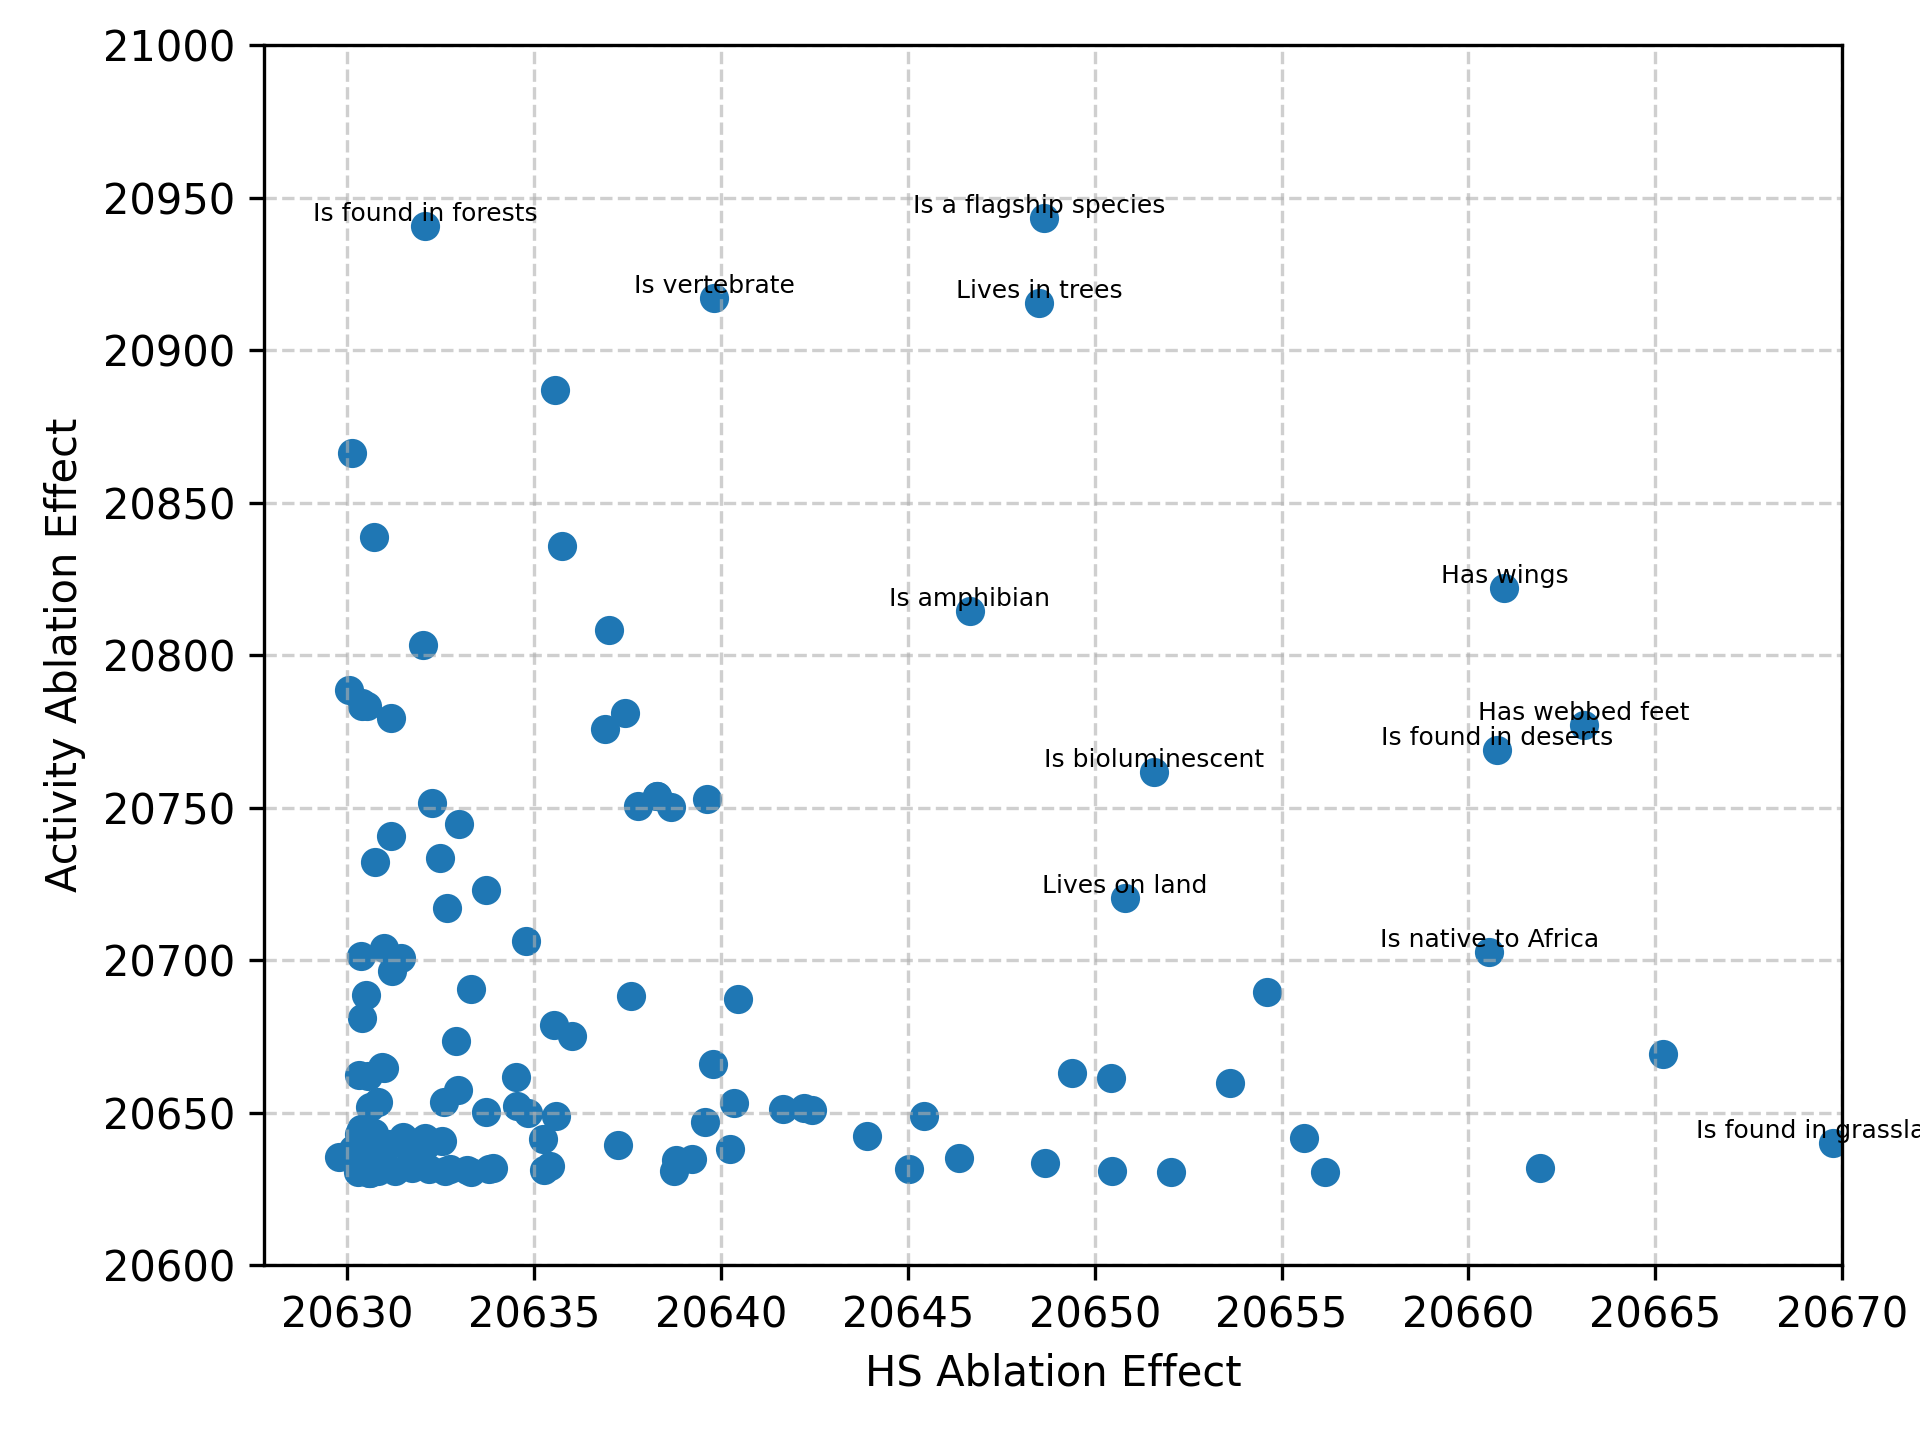
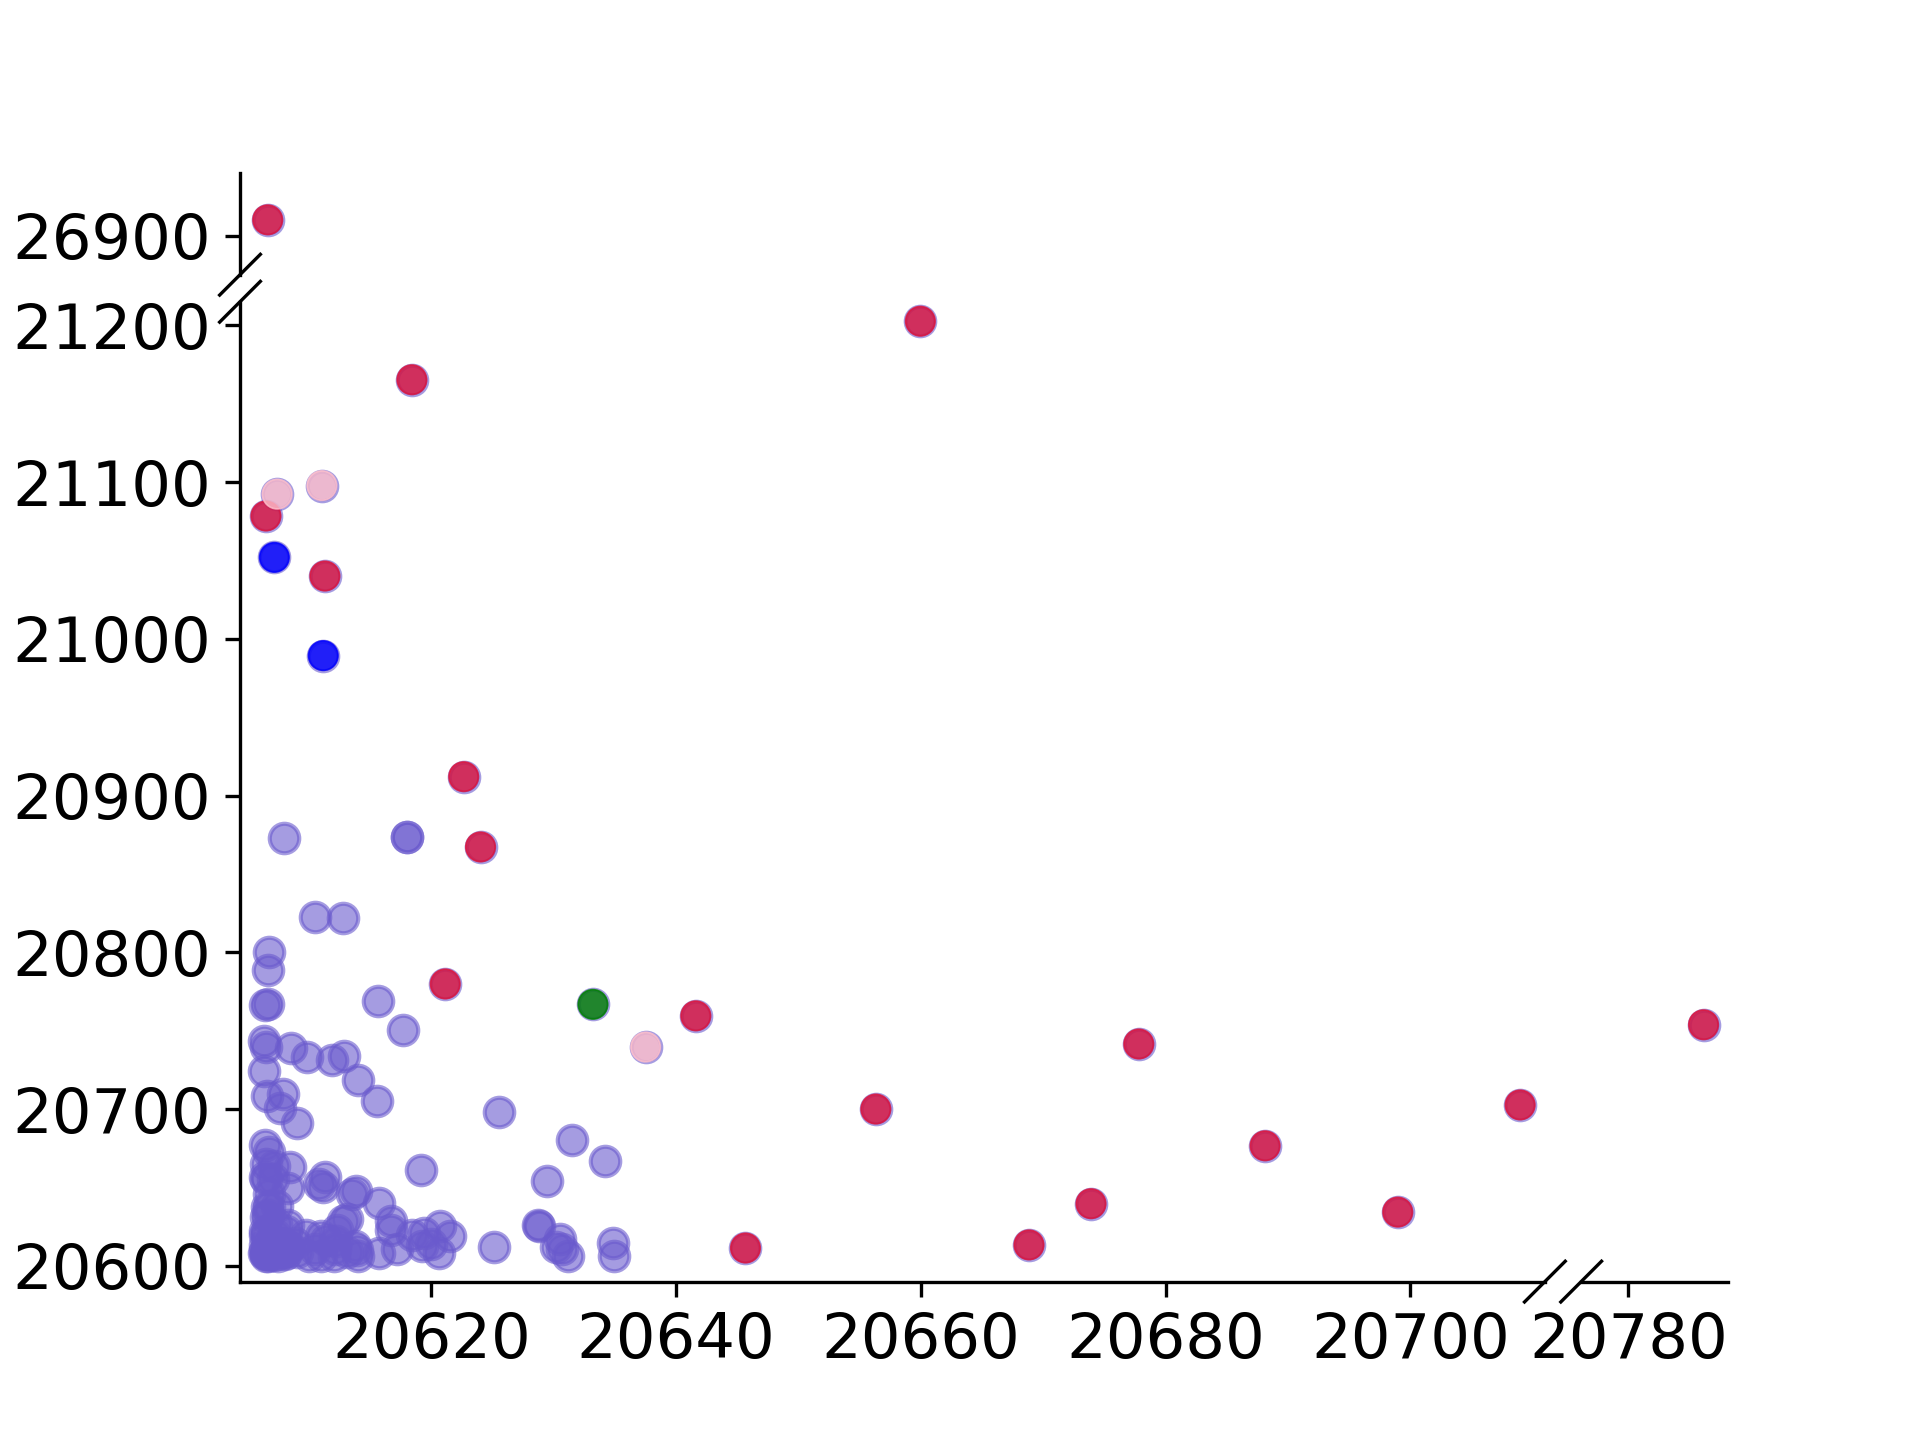
redoing all analyses, code documentation

diff --git a/models/runner.py b/models/runner.py
@@ -32,6 +32,7 @@ pd.set_option('display.max_columns', None)      # Show all columns
 from scipy.stats import ttest_ind
 from itertools import combinations
 device = torch.device("cuda" if torch.cuda.is_available() else "cpu")
+from brokenaxes import brokenaxes
 
 def changeweights(weights, i):
     device = weights.device
@@ -269,8 +270,8 @@ def run(config):
         original_weights = results[f"weights_fold1{suffix}"].detach()
 
         try:
-            barplot1 = pk.load(open(f"../fits/ablations1_{suffix}.pk", "rb"))
-            barplot2 = pk.load(open(f"../fits/ablations2_{suffix}.pk", "rb"))
+            barplot1 = pk.load(open(f"../fits/ablations1{suffix}.pk", "rb"))
+            barplot2 = pk.load(open(f"../fits/ablations2{suffix}.pk", "rb"))
         except:
             totalnlls = []
             for i in tqdm(range(len(original_weights) + 1)):
@@ -282,8 +283,8 @@ def run(config):
     
             barplot1 = [totalnlls[i].detach().cpu().item() for i in np.arange(0, 2 + num_features)]
             barplot2 = [totalnlls[i].detach().cpu().item() for i in [0, 1] + list(np.arange(2 + num_features, 2 + 2*num_features))]
-            pk.dump(barplot1, open(f"../fits/ablations1_{suffix}.pk", "wb"))
-            pk.dump(barplot2, open(f"../fits/ablations2_{suffix}.pk", "wb"))
+            pk.dump(barplot1, open(f"../fits/ablations1{suffix}.pk", "wb"))
+            pk.dump(barplot2, open(f"../fits/ablations2{suffix}.pk", "wb"))
 
         plt.figure(figsize=(15, 8))
         labels = ["with all weights", "no freq"] + [f"no HS_{feat}" for feat in models[best_model_class].models[best_model_name].feature_names]
@@ -296,8 +297,8 @@ def run(config):
         plt.title(f'Ablation for HS')
         plt.grid(axis='y', linestyle=':', alpha=0.5)
         plt.tight_layout()
-        plt.savefig(f"../plots/ablation_study_HS_{suffix}.png", dpi=300, bbox_inches='tight')
-        print(f"Saved ../plots/ablation_study_HS_{suffix}.png")
+        plt.savefig(f"../plots/ablation_study_HS{suffix}.png", dpi=300, bbox_inches='tight')
+        print(f"Saved ../plots/ablation_study_HS{suffix}.png")
 
         plt.figure(figsize=(15, 8))
         labels = ["with all weights", "no freq"] + [f"no Activity_{feat}" for feat in models[best_model_class].models[best_model_name].feature_names]
@@ -310,11 +311,11 @@ def run(config):
         plt.title(f'Ablation for Activity')
         plt.grid(axis='y', linestyle=':', alpha=0.5)
         plt.tight_layout()
-        plt.savefig(f"../plots/ablation_study_Activity_{suffix}.png", dpi=300, bbox_inches='tight')
-        print(f"Saved ../plots/ablation_study_Activity_{suffix}.png")
+        plt.savefig(f"../plots/ablation_study_Activity{suffix}.png", dpi=300, bbox_inches='tight')
+        print(f"Saved ../plots/ablation_study_Activity{suffix}.png")
 
         try:
-            barplot3 = pk.load(open(f"../fits/ablations3_{suffix}.pk", "rb"))
+            barplot3 = pk.load(open(f"../fits/ablations3{suffix}.pk", "rb"))
         except:
             totalnlls_fullfeatureremoved = []
             for i in tqdm(range(num_features + 2)):
@@ -327,7 +328,7 @@ def run(config):
                 totalnll = sum([models[best_model_class].models[best_model_name].get_nll(seq, weights, True) for seq in sequences])
                 totalnlls_fullfeatureremoved.append(totalnll)
             barplot3 = [totalnlls_fullfeatureremoved[i].detach().cpu().item() for i in range(len(totalnlls_fullfeatureremoved))]
-            pk.dump(barplot3, open(f"../fits/ablations3_{suffix}.pk", "wb"))
+            pk.dump(barplot3, open(f"../fits/ablations3{suffix}.pk", "wb"))
 
         plt.figure(figsize=(15, 8))
         labels = ["with all weights", "no freq"] + [f"no {feat}" for feat in models[best_model_class].models[best_model_name].feature_names]
@@ -340,8 +341,8 @@ def run(config):
         plt.title(f'Ablation for features')
         plt.grid(axis='y', linestyle=':', alpha=0.5)
         plt.tight_layout()
-        plt.savefig(f"../plots/ablation_study_features_{suffix}.png", dpi=300, bbox_inches='tight')
-        print(f"Saved ../plots/ablation_study_features_{suffix}.png")
+        plt.savefig(f"../plots/ablation_study_features{suffix}.png", dpi=300, bbox_inches='tight')
+        print(f"Saved ../plots/ablation_study_features{suffix}.png")
 
 
 
@@ -776,33 +777,140 @@ def run(config):
         features = models[best_model_class].models[best_model_name].feature_names
         weights_HS = weights[1:1+len(features)]
         weights_Act = weights[1+len(features):]
-        ablations_HS = pk.load(open("../fits/ablations1.pk", "rb"))[2:]
-        ablations_Act = pk.load(open("../fits/ablations2.pk", "rb"))[2:]
+        ablations_HS = pk.load(open(f"../fits/ablations1{suffix}.pk", "rb"))[2:]
+        ablations_Act = pk.load(open(f"../fits/ablations2{suffix}.pk", "rb"))[2:]
 
-        plt.scatter(ablations_HS, ablations_Act)
         top10_HS_idx = np.argsort(ablations_HS)[-10:]
         top10_Act_idx = np.argsort(ablations_Act)[-10:]
         top10_idx = set(top10_HS_idx) | set(top10_Act_idx)
+
+        # plt.scatter(ablations_HS, ablations_Act)
+        # for i, feat in enumerate(features):
+        #     # if (ablations_HS[i] > 20645 and ablations_Act[i] > 20700) or (i in top10_idx):
+        #     if (ablations_HS[i] > 20620 and ablations_Act[i] > 20700) or (i in top10_idx):
+        #         plt.text(
+        #             ablations_HS[i],
+        #             ablations_Act[i],
+        #             feat[8:].split('(')[0], 
+        #             fontsize=6,
+        #             ha="center",
+        #             va="bottom"
+        #         )
+
+        # plt.xlabel("HS Ablation Effect")
+        # plt.ylabel("Activity Ablation Effect")
+        # # plt.grid(True, linestyle="--", alpha=0.6)
+        # plt.tight_layout()
+        # plt.xlim(min(ablations_HS) - 2, 20670)
+        # plt.ylim(20600, 21000)
+        # plt.savefig("../plots/visweights.png", dpi=300)
+        # print("Saved")
+
+        
+        '''
+        plt.scatter(
+            ablations_HS,
+            ablations_Act,
+            color="steelblue",   # change colour
+            alpha=0.6,           # add transparency
+            s=40
+        )
+
+        highlight_idx = [
+            i for i in range(len(features))
+            if (ablations_HS[i] > 20620 and ablations_Act[i] > 20700) or (i in top10_idx)
+        ]
+        plt.scatter(
+            np.array(ablations_HS)[highlight_idx],
+            np.array(ablations_Act)[highlight_idx],
+            color="crimson",
+            alpha=0.9,
+            s=40,
+            edgecolor="darkred",
+            linewidth=0.4
+        )
+
         for i, feat in enumerate(features):
-            if (ablations_HS[i] > 20645 and ablations_Act[i] > 20700) or (i in top10_idx):
+            if (ablations_HS[i] > 20620 and ablations_Act[i] > 20700):
                 plt.text(
                     ablations_HS[i],
                     ablations_Act[i],
-                    feat[8:].split('(')[0], 
-                    fontsize=6,
-                    ha="center",
+                    feat[8:].split('(')[0],
+                    fontsize=8,            # bigger font
+                    rotation=60,           # 60 degrees
+                    ha="left",             # start after the point
+                    va="bottom"
+                )
+            elif (i in top10_idx):
+                plt.text(
+                    ablations_HS[i],
+                    ablations_Act[i],
+                    feat[8:].split('(')[0],
+                    fontsize=8,            # bigger font
+                    rotation=60,
+                    ha="left",             # start after the point
                     va="bottom"
                 )
 
-        plt.xlabel("HS Ablation Effect")
-        plt.ylabel("Activity Ablation Effect")
-        plt.grid(True, linestyle="--", alpha=0.6)
+        plt.xlabel("HS Ablation Effect", fontsize=13)
+        plt.ylabel("Activity Ablation Effect", fontsize=13)
+
+        # --- Remove top & right spines
+        ax = plt.gca()
+        ax.spines["top"].set_visible(False)
+        ax.spines["right"].set_visible(False)
+
         plt.tight_layout()
-        plt.xlim(min(ablations_HS) - 2, 20670)
-        # plt.xlim(np.min(ablations_HS), 9.936)
-        plt.ylim(20600, 21000)
-        # plt.ylim(np.min(ablations_Act), 9.95)
+        plt.xlim(min(ablations_HS) - 2, 20725)
+        plt.ylim(20600, 21200)
+
         plt.savefig("../plots/visweights.png", dpi=300)
+        print("Saved")
+        '''
+
+        bax = brokenaxes(
+            xlims=((min(ablations_HS)-2, 20711),
+                (max(ablations_HS)-10, max(ablations_HS)+2)),
+            ylims=((20590, 21215),
+                (max(ablations_Act)-35, max(ablations_Act)+30)),
+            hspace=.05, wspace=.05
+        )
+
+        bax.scatter(ablations_HS, ablations_Act,
+                    color="slateblue", alpha=0.6, s=50)
+        highlight_idx = [
+            i for i in range(len(features))
+            if (ablations_HS[i] > 20620 and ablations_Act[i] > 20700) or (i in top10_idx)
+        ]
+
+        colours = []
+        for ind in highlight_idx:
+            if weights_Act[ind] > 0 and weights_HS[ind] > 0:
+                colours.append("crimson")
+            if weights_Act[ind] < 0 and weights_HS[ind] < 0:
+                colours.append("blue")
+            if weights_Act[ind] > 0 and weights_HS[ind] < 0:
+                colours.append("green")
+            if weights_Act[ind] < 0 and weights_HS[ind] > 0:
+                colours.append("pink")
+        
+        bax.scatter(
+            np.array(ablations_HS)[highlight_idx],
+            np.array(ablations_Act)[highlight_idx],
+            color=colours, alpha=0.8, s=50,
+            linewidth=0.4
+        )
+        for ax in bax.axs:
+            ax.tick_params(axis="both", labelsize=15)
+
+        # bax.set_xlabel("HS Ablation Effect", labelpad=24)
+        # bax.set_ylabel("Activity Ablation Effect", labelpad=45)
+        # plt.tight_layout()
+        plt.savefig("../plots/visweights.png", dpi=300)
+        print("Saved")
+
+
+        #-------------------------
 
         sorted_idx = np.argsort(weights_HS)  # ascending; use [::-1] for descending
         features_sorted = [features[i] for i in sorted_idx]
